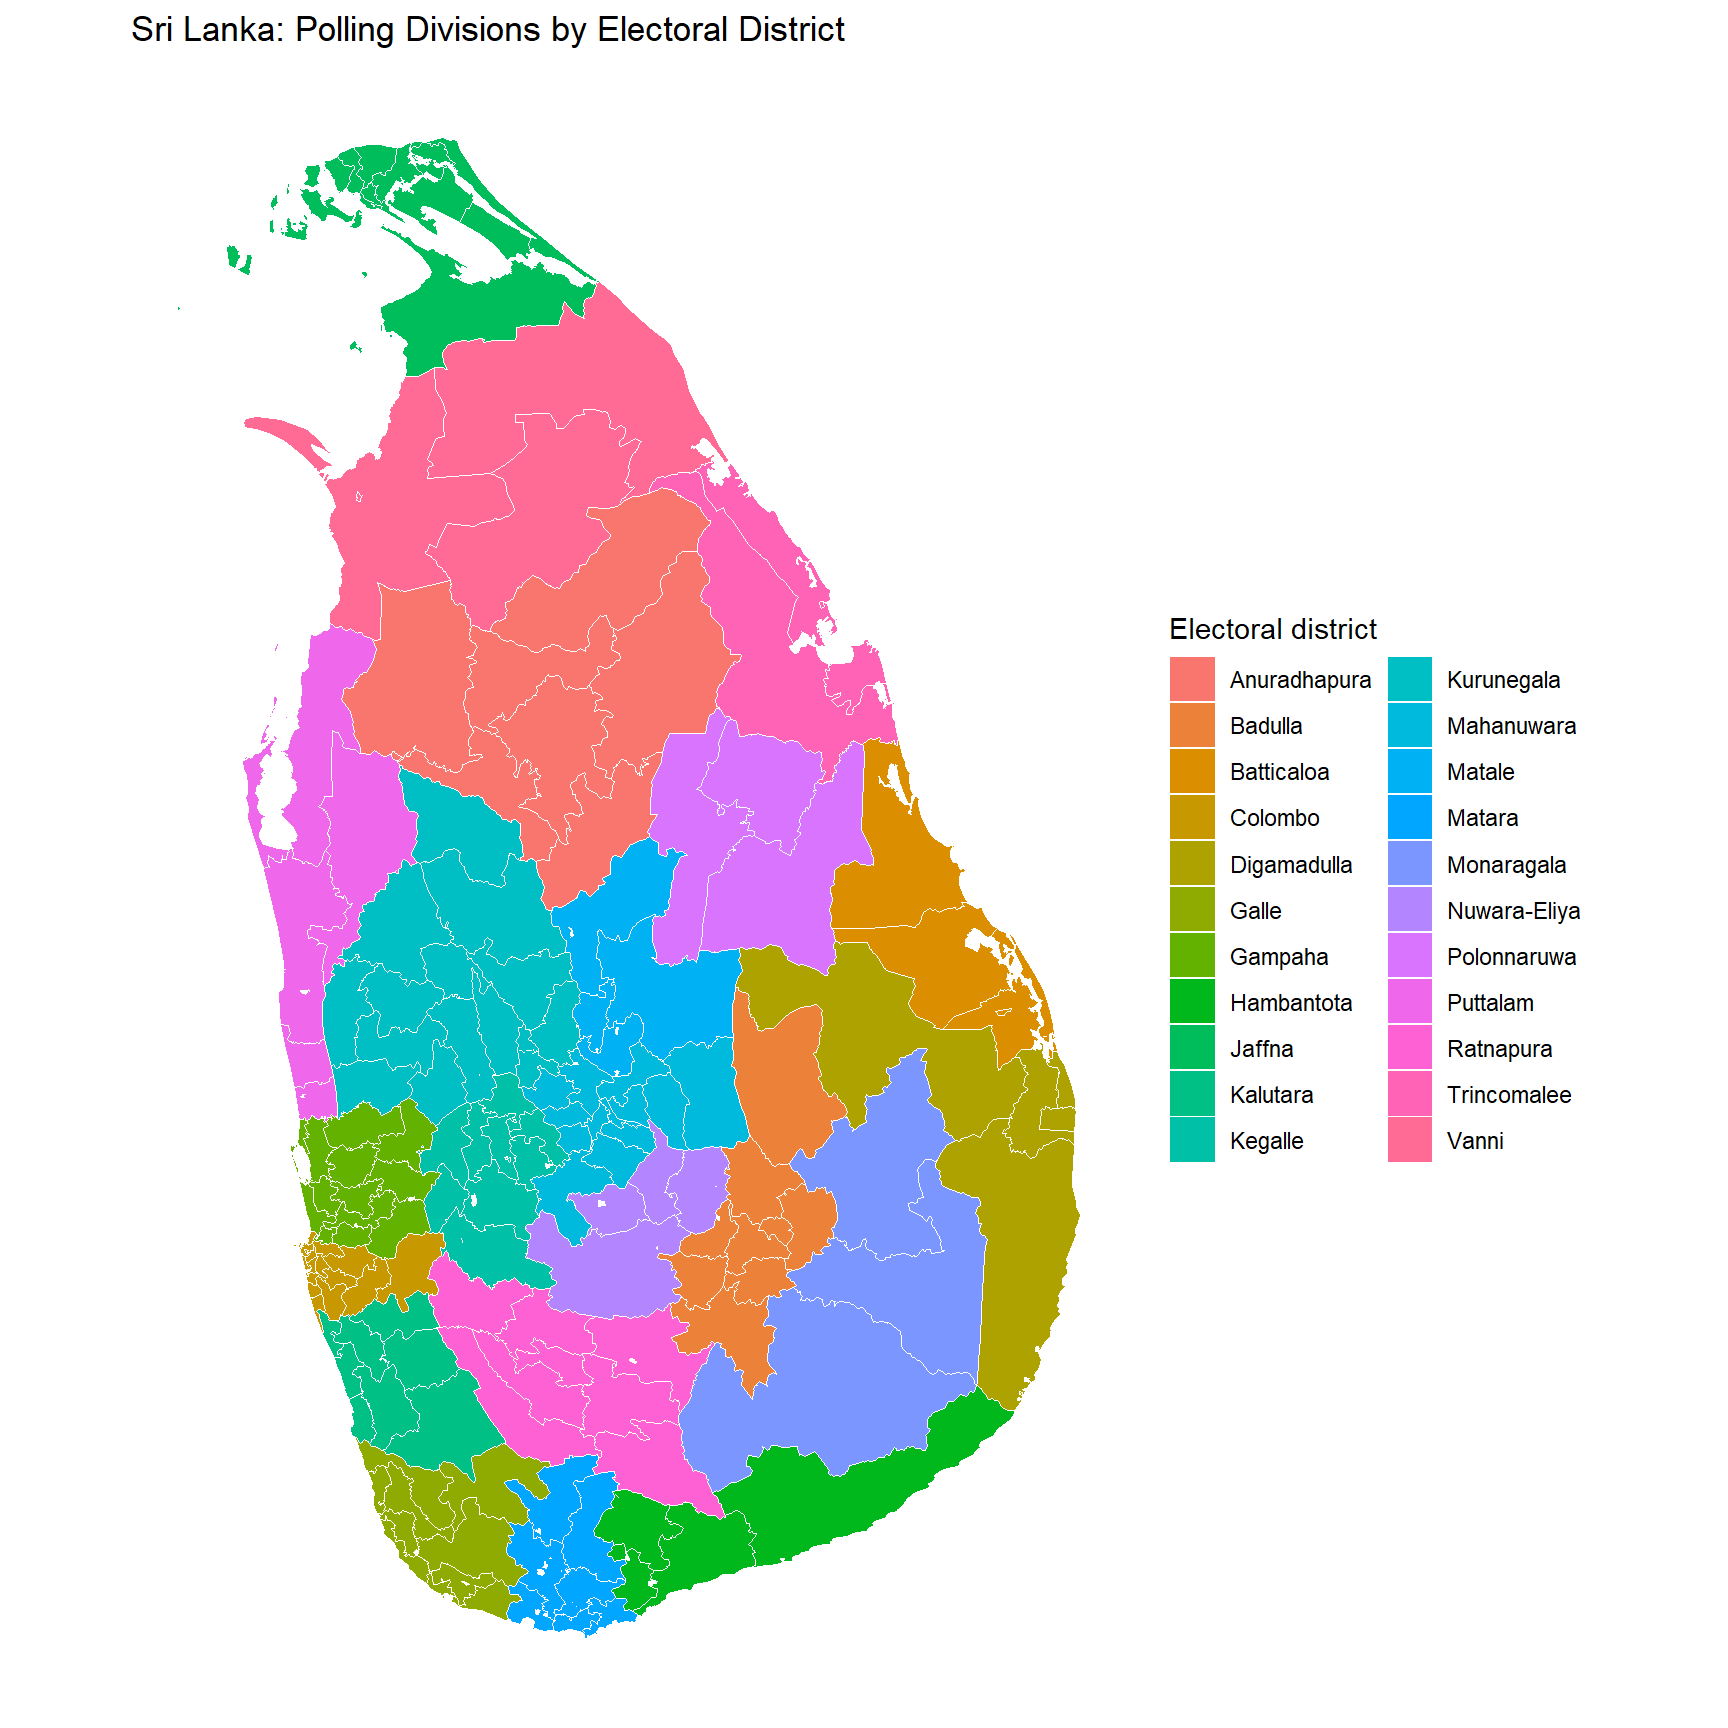
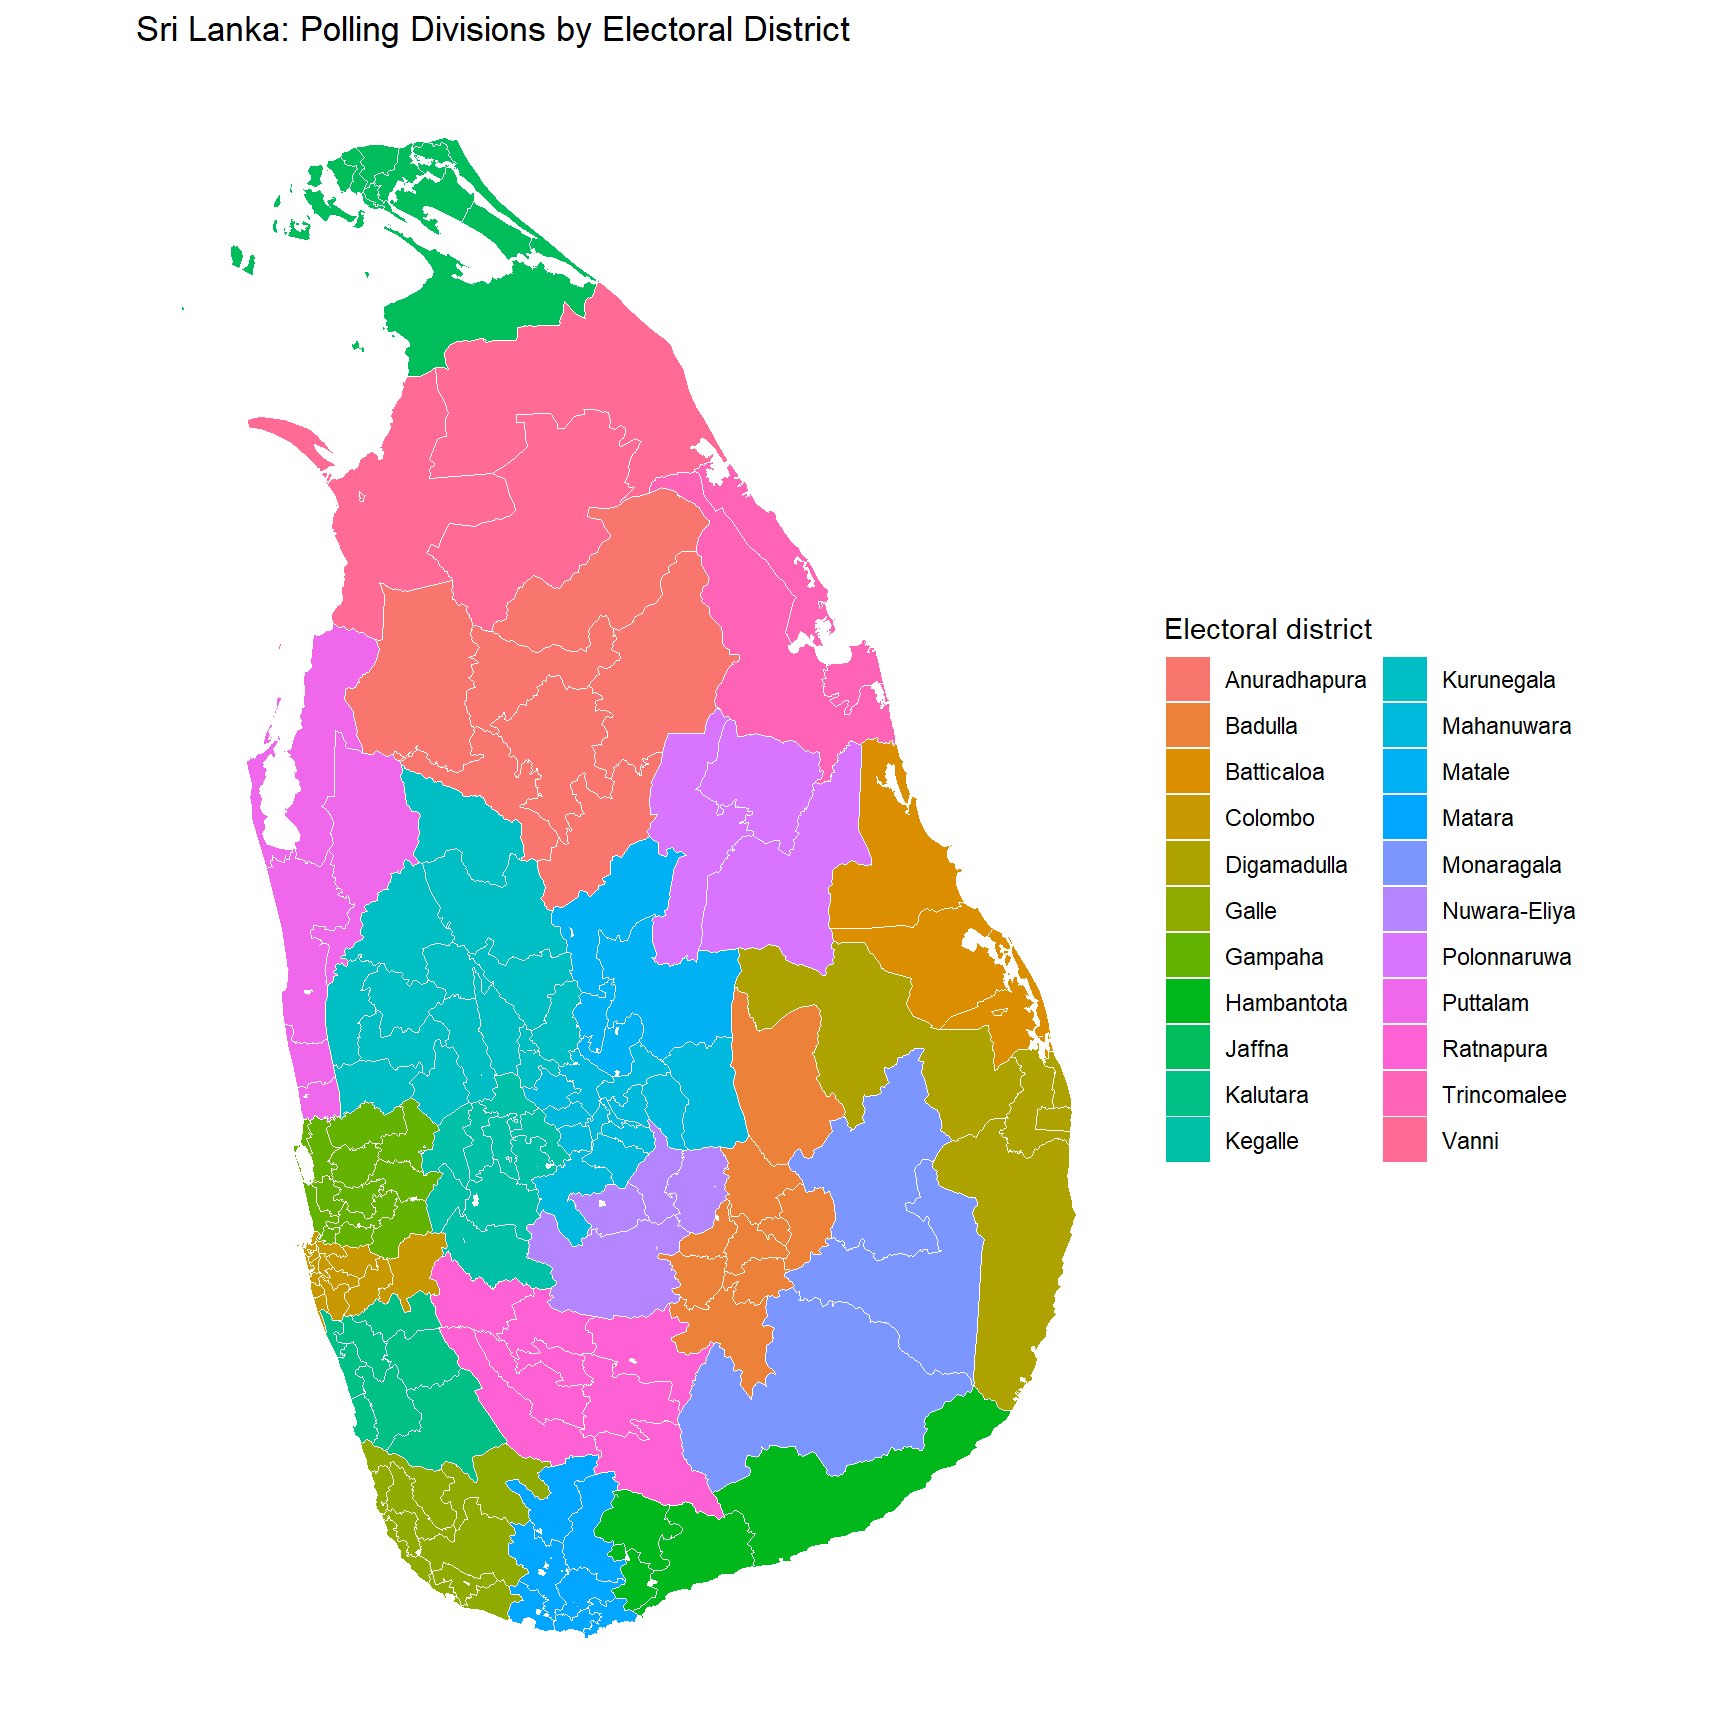
First submission to crasn failed, fixed the links in readme

diff --git a/README.md b/README.md
@@ -5,27 +5,20 @@
 
 <!-- badges: start -->
 
-[![](https://www.r-pkg.org/badges/version/SLspatial)](https://cran.r-project.org/package=SLspatial)
-[![CRAN
-checks](https://badges.cranchecks.info/summary/SLspatial.svg)](https://cran.r-project.org/web/checks/check_results_SLspatial.html)
-[![r-universe status
-badge](https://Amalan-ConStat.r-universe.dev/badges/SLspatial)](https://Amalan-ConStat.r-universe.dev/SLspatial)
-
 [![](http://cranlogs.r-pkg.org/badges/grand-total/SLspatial?color=green)](https://cran.r-project.org/package=SLspatial)
 [![](http://cranlogs.r-pkg.org/badges/last-month/SLspatial?color=green)](https://cran.r-project.org/package=SLspatial)
 [![](http://cranlogs.r-pkg.org/badges/last-week/SLspatial?color=green)](https://cran.r-project.org/package=SLspatial)
-
 [![Project Status: Active - The project has reached a stable, usable
 state and is being actively
 developed.](https://www.repostatus.org/badges/latest/active.svg)](https://www.repostatus.org/#active)
 [![](https://img.shields.io/badge/lifecycle-stable-brightgreen.svg)](https://lifecycle.r-lib.org/articles/stages.html#stable)
 [![GitHub
 issues](https://img.shields.io/github/issues/Amalan-ConStat/SLspatial.svg?style=popout)](https://github.com/Amalan-ConStat/SLspatial/issues)
-
 [![](https://img.shields.io/github/languages/code-size/Amalan-ConStat/SLspatial.svg)](https://github.com/Amalan-ConStat/SLspatial)
-
 [![MIT
 license](https://img.shields.io/badge/License-MIT-blue.svg)](https://lbesson.mit-license.org/)
+[![Codecov test
+coverage](https://codecov.io/gh/Amalan-ConStat/SLspatial/graph/badge.svg)](https://app.codecov.io/gh/Amalan-ConStat/SLspatial)
 <!-- badges: end -->
 
 **SLspatial** provides spatial boundary datasets for Sri Lanka as simple
@@ -398,7 +391,36 @@ st_crs(SLElectoralDistricts)
 #>             ANGLEUNIT["degree",0.0174532925199433]],
 #>     ID["EPSG",4326]]
 st_crs(SLElectorate)
-#> Coordinate Reference System: NA
+#> Coordinate Reference System:
+#>   User input: EPSG:4326 
+#>   wkt:
+#> GEOGCRS["WGS 84",
+#>     ENSEMBLE["World Geodetic System 1984 ensemble",
+#>         MEMBER["World Geodetic System 1984 (Transit)"],
+#>         MEMBER["World Geodetic System 1984 (G730)"],
+#>         MEMBER["World Geodetic System 1984 (G873)"],
+#>         MEMBER["World Geodetic System 1984 (G1150)"],
+#>         MEMBER["World Geodetic System 1984 (G1674)"],
+#>         MEMBER["World Geodetic System 1984 (G1762)"],
+#>         MEMBER["World Geodetic System 1984 (G2139)"],
+#>         MEMBER["World Geodetic System 1984 (G2296)"],
+#>         ELLIPSOID["WGS 84",6378137,298.257223563,
+#>             LENGTHUNIT["metre",1]],
+#>         ENSEMBLEACCURACY[2.0]],
+#>     PRIMEM["Greenwich",0,
+#>         ANGLEUNIT["degree",0.0174532925199433]],
+#>     CS[ellipsoidal,2],
+#>         AXIS["geodetic latitude (Lat)",north,
+#>             ORDER[1],
+#>             ANGLEUNIT["degree",0.0174532925199433]],
+#>         AXIS["geodetic longitude (Lon)",east,
+#>             ORDER[2],
+#>             ANGLEUNIT["degree",0.0174532925199433]],
+#>     USAGE[
+#>         SCOPE["Horizontal component of 3D system."],
+#>         AREA["World."],
+#>         BBOX[-90,-180,90,180]],
+#>     ID["EPSG",4326]]
 st_crs(SLAdminDivisions)
 #> Coordinate Reference System:
 #>   User input: WGS 84 
@@ -455,8 +477,6 @@ suggestions can be submitted through the [GitHub issue
 tracker](https://github.com/Amalan-ConStat/SLspatial/issues).
 
 #### Thank You
-
-[![Twitter](https://img.shields.io/twitter/url/https/github.com/Amalan-ConStat/SLspatial.svg?style=social)](https://twitter.com/intent/tweet?text=Wow:&url=https%3A%2F%2Fgithub.com%2FAmalan-ConStat%2FSLspatial)
 
 [![](https://img.shields.io/badge/LinkedIn-Amalan%20Mahendran-black.svg?style=flat)](https://www.linkedin.com/in/amalan-mahendran-72b86b37/)
 [![](https://img.shields.io/badge/Research%20Gate-Amalan%20Mahendran-black.svg?style=flat)](https://www.researchgate.net/profile/Amalan_Mahendran)
